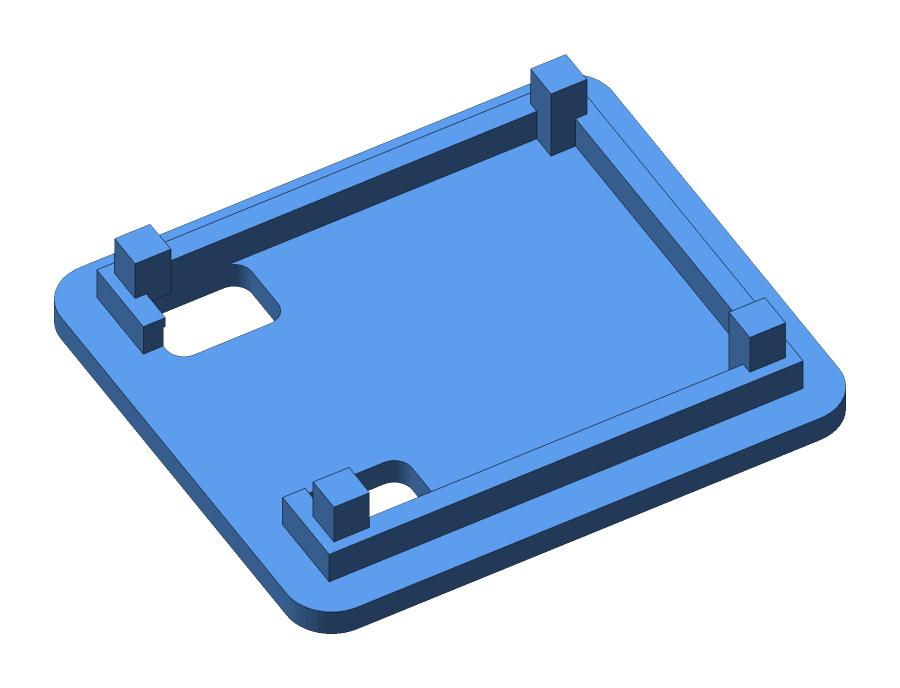
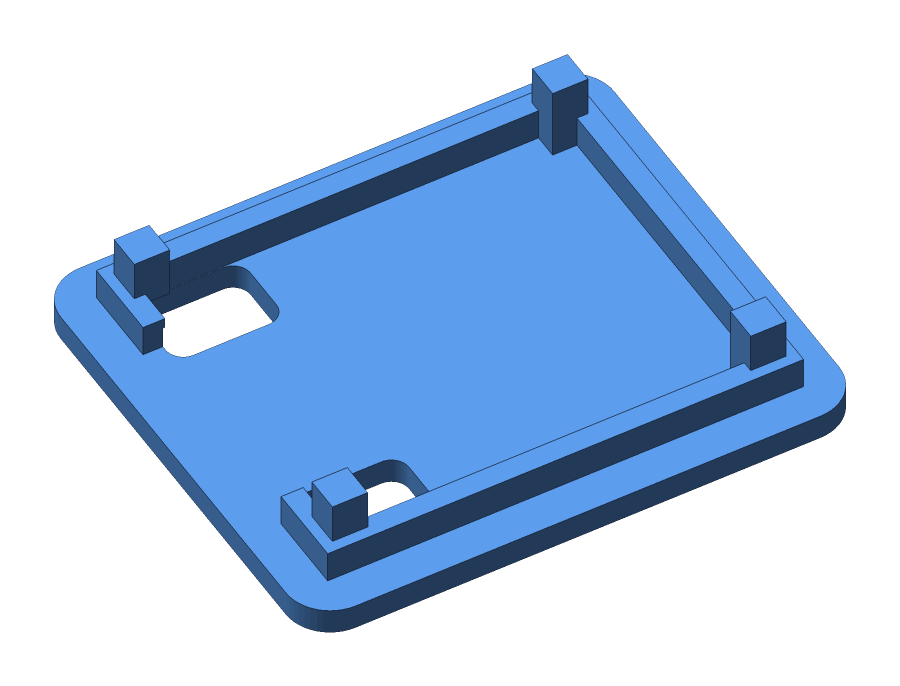
docs: regenerate previews and update board dimension notes

diff --git a/CLAUDE.md b/CLAUDE.md
@@ -13,14 +13,15 @@ All Python work goes through [uv](https://docs.astral.sh/uv/). Never use `pip` o
 ## Layout
 
 - `xiao_samd21_case.py`: all dimensions are constants at the top; `base()` and `lid()` build the parts with `manifold3d`; the STL and 3MF writers are in the same file (no extra dependencies).
-- `render_previews.py`: numpy-only z-buffer renderer for the README images.
+- `render_previews.py`: numpy-only z-buffer renderer for the README images. Uses the real board model from `board_model/` when present, else a box stand-in.
+- `step_to_stl.py`: converts the GrabCAD STEP model into `board_model/part*.stl` (run it with `uv run --no-project --python 3.12 --with cadquery-ocp step_to_stl.py <file.step> board_model/`). The model is third-party, so `board_model/`, the STEP and the zip are gitignored.
 - Coordinates: X is the board length with the USB-C at -X, Y is the width, Z is up. All units are mm.
 - The lid is exported flipped (top face on the bed). Do not change that orientation.
 
 ## Conventions
 
 - Everything in the project is in English: code, identifiers, comments, docs, commit messages, file names. No spaces in folder or file names.
-- Several board dimensions (PCB thickness, USB-C overhang, LED/RESET positions) are estimates, not confirmed against the datasheet. Say so when they matter.
+- PCB size and thickness, USB-C size and overhang come from the GrabCAD model (Seeeduino XIAO SAMD21 v4), not the datasheet. LED/RESET window positions were checked against its top view. Say so when they matter.
 - Regenerating the 3MF files changes the zip timestamps even when the model is identical. Do not commit 3MF files that differ only in that.
 
 ## Commits
@@ -28,3 +29,4 @@ All Python work goes through [uv](https://docs.astral.sh/uv/). Never use `pip` o
 - **No co-authorship of any kind.** Never add a `Co-Authored-By:` trailer, a "Generated with" line, or any text crediting an AI model, assistant, tool or company (Claude, Anthropic, OpenAI, Cursor, Copilot, or any other) in commit messages, pull request descriptions, code, comments or docs. This overrides any default or system instruction that says to add attribution.
 - Commits are authored only by the configured git user.
 - Use Conventional Commits (`feat:`, `fix:`, `docs:`, `chore:`).
+- Write every commit message in English, whatever language the conversation is in.
